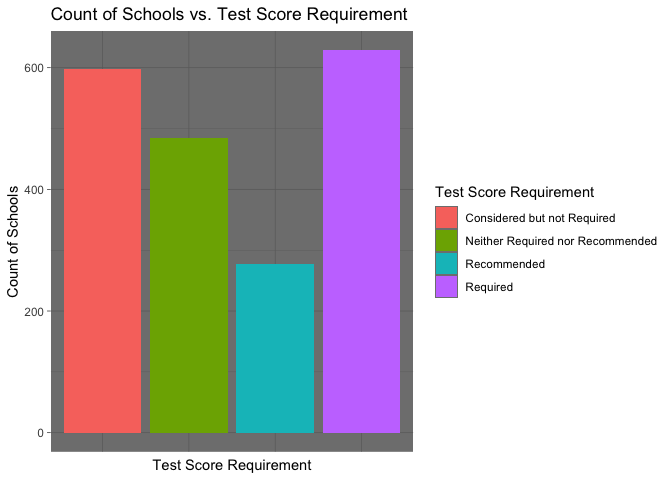
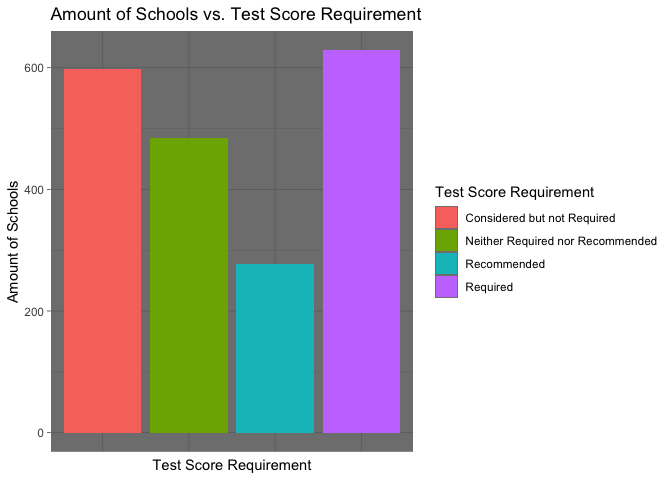
change wording

Changed region(s): [[0.0625, 0.0, 0.625, 0.0625], [0.0, 0.375, 0.0312, 0.625]]

diff --git a/README.md b/README.md
@@ -69,9 +69,9 @@ head(adm2020)
 ``` r
 ggplot(adm2020, mapping = aes(x = adm_tscores, fill = adm_tscores)) +
   geom_bar() +
-  labs(title = "Count of Schools vs. Test Score Requirement",
+  labs(title = "Amount of Schools vs. Test Score Requirement",
        x = "Test Score Requirement",
-       y = "Count of Schools") +
+       y = "Amount of Schools") +
   scale_fill_discrete(name = "Test Score Requirement",
                       labels = c("Considered_but_not_required" = "Considered but not Required",
                                  "Neither_required_nor_recommended" = "Neither Required nor Recommended")) +
